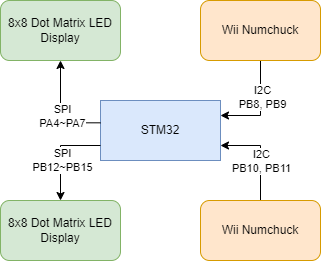
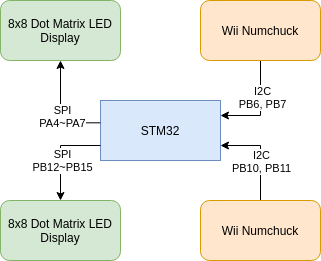
state machine update

diff --git a/index.html b/index.html
@@ -331,7 +331,7 @@
 
             <div class=""> <!--col-md-6-->
               <div class="features-image animated out" data-animation="fadeInUp" data-delay="0">
-                <img class= "block-diagram" src="assets/images/website/project_block_diagram-r.png" alt="">
+                <img class= "block-diagram" src="assets/images/website/project_block_diagram-r2.png" alt="">
               </div> <!-- end features-image -->
             </div> <!-- end col-md-6 -->
 
